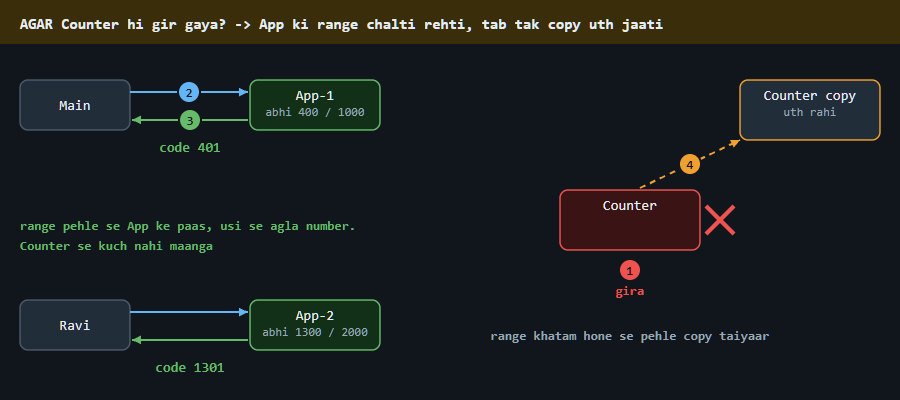
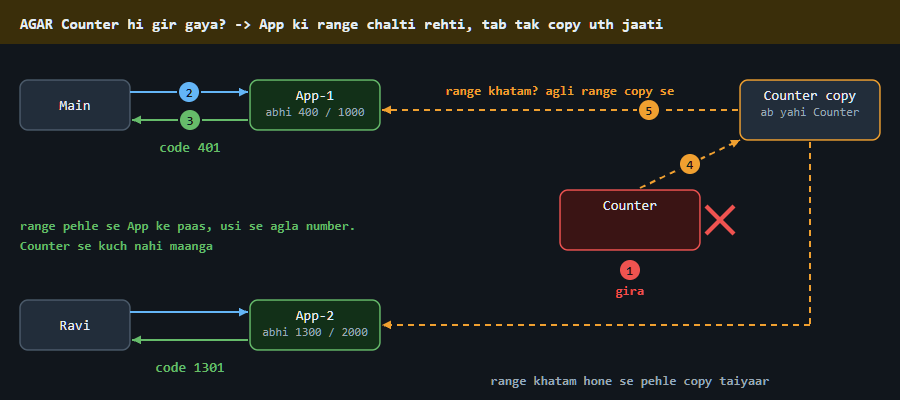
hld url c3 agar: Counter copy dono App se judi (agli range copy se)

diff --git a/04_HLD/SYSTEM_DESIGNS/01_url_shortener/img/c3_anim.html b/04_HLD/SYSTEM_DESIGNS/01_url_shortener/img/c3_anim.html
@@ -171,8 +171,11 @@ function frame(ph) {
     // App se Counter tak koi teer nahi: range pehle se App ke paas, Counter se kuch nahi maanga
     code(3, 'code 401', 'code 1301', C.good);
     L(20, 190, 'range pehle se App ke paas, usi se agla number.', C.good, 'start'); L(20, 210, 'Counter se kuch nahi maanga', C.good, 'start');
-    B(740, 40, 140, 60, 'Counter copy', 'uth rahi', { st: 'acc' }); A(640, 148, 740, 100, C.acc, { n: 4, dash: 1 });
-    L(630, 300, 'range khatam hone se pehle copy taiyaar', C.muted);
+    B(740, 40, 140, 60, 'Counter copy', 'ab yahi Counter', { st: 'acc' }); A(640, 148, 740, 100, C.acc, { n: 4, dash: 1 });
+    // range khatam hone pe App agli range copy se lete (range copy -> App jaati)
+    A(738, 70, 382, 70, C.acc, { n: 5, dash: 1, at: 0.25 }); L(560, 55, 'range khatam? agli range copy se', C.acc);
+    AP([[810, 102], [810, 285], [382, 285]], C.acc, { dash: 1 });
+    L(630, 345, 'range khatam hone se pehle copy taiyaar', C.muted);
   }
 }
 

diff --git a/04_HLD/SYSTEM_DESIGNS/01_url_shortener/img/c3_anim.js b/04_HLD/SYSTEM_DESIGNS/01_url_shortener/img/c3_anim.js
@@ -36,7 +36,10 @@ function frame(ph) {
     // App se Counter tak koi teer nahi: range pehle se App ke paas, Counter se kuch nahi maanga
     code(3, 'code 401', 'code 1301', C.good);
     L(20, 190, 'range pehle se App ke paas, usi se agla number.', C.good, 'start'); L(20, 210, 'Counter se kuch nahi maanga', C.good, 'start');
-    B(740, 40, 140, 60, 'Counter copy', 'uth rahi', { st: 'acc' }); A(640, 148, 740, 100, C.acc, { n: 4, dash: 1 });
-    L(630, 300, 'range khatam hone se pehle copy taiyaar', C.muted);
+    B(740, 40, 140, 60, 'Counter copy', 'ab yahi Counter', { st: 'acc' }); A(640, 148, 740, 100, C.acc, { n: 4, dash: 1 });
+    // range khatam hone pe App agli range copy se lete (range copy -> App jaati)
+    A(738, 70, 382, 70, C.acc, { n: 5, dash: 1, at: 0.25 }); L(560, 55, 'range khatam? agli range copy se', C.acc);
+    AP([[810, 102], [810, 285], [382, 285]], C.acc, { dash: 1 });
+    L(630, 345, 'range khatam hone se pehle copy taiyaar', C.muted);
   }
 }
